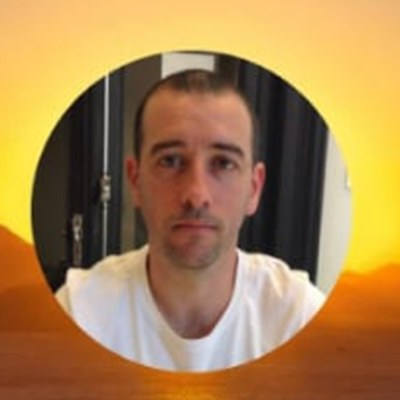
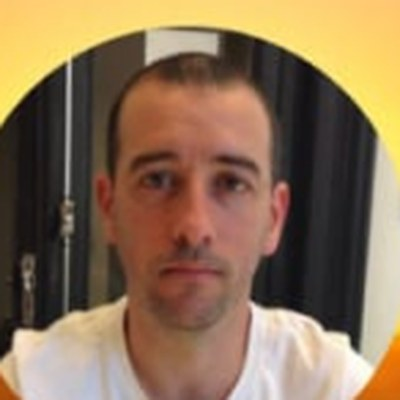
Float spot bubbles above cards, improve vehicle and Adrian profile

diff --git a/css/styles.css b/css/styles.css
@@ -106,11 +106,11 @@ body {
 .vehicle-showcase {
   position: relative;
   flex-shrink: 0;
-  max-width: min(520px, 72vw);
+  max-width: min(560px, 80vw);
   width: 100%;
-  height: clamp(180px, 34vh, 260px);
+  height: clamp(200px, 36vh, 300px);
   margin: 0 auto 8px;
-  padding-bottom: 16px;
+  padding-bottom: 8px;
   background: transparent;
   border: none;
   overflow: visible;
@@ -138,7 +138,7 @@ body {
 
 .vehicle-view-photo {
   object-fit: contain;
-  object-position: center bottom;
+  object-position: center center;
 }
 
 .vehicle-view {
@@ -147,31 +147,16 @@ body {
   width: 100%;
   height: 100%;
   object-fit: contain;
-  object-position: center bottom;
+  object-position: center center;
   opacity: 0;
   transform: none;
-  transition: opacity 0.45s ease, filter 0.45s ease;
+  transition: opacity 0.45s ease;
   pointer-events: none;
 }
 
 .vehicle-view.active {
   opacity: 1;
   transform: none;
-  filter: drop-shadow(0 18px 28px rgba(0, 0, 0, 0.5));
-}
-
-.vehicle-ground {
-  position: absolute;
-  bottom: 4%;
-  left: 50%;
-  width: 48%;
-  height: 18px;
-  border-radius: 50%;
-  background: radial-gradient(ellipse, rgba(0, 0, 0, 0.45) 0%, rgba(0, 0, 0, 0) 72%);
-  transform: translateX(-50%);
-  transition: opacity 0.45s ease;
-  filter: blur(4px);
-  pointer-events: none;
 }
 
 .vehicle-badge {
@@ -272,7 +257,7 @@ body {
   height: clamp(72px, 12vw, 96px);
   border-radius: 50%;
   object-fit: cover;
-  object-position: center top;
+  object-position: center 28%;
   border: 2px solid rgba(122, 156, 132, 0.45);
   box-shadow: 0 4px 14px rgba(0, 0, 0, 0.28);
   display: block;
@@ -533,39 +518,59 @@ body {
   flex: 1;
   min-height: 0;
   align-content: start;
+  transition: padding-top 0.2s ease;
+}
+
+.services-grid.has-spots-open {
+  padding-top: clamp(90px, 14vh, 120px);
+}
+
+.slide-card.services-slide.has-spots-open {
+  overflow: visible;
 }
 
 .service-card-wrap {
   position: relative;
-  overflow: hidden;
+  overflow: visible;
   container-type: inline-size;
   container-name: service-card;
   border-radius: 16px;
 }
 
 .service-card-wrap.is-spots-open {
-  z-index: 30;
+  z-index: 40;
+}
+
+.service-card-dim {
+  position: absolute;
+  inset: 0;
+  z-index: 5;
+  border-radius: 16px;
+  background: rgba(0, 0, 0, 0.72);
+  opacity: 0;
+  pointer-events: none;
+  transition: opacity 0.2s ease;
+}
+
+.service-card-dim.is-visible {
+  opacity: 1;
 }
 
 .spot-bubbles-inline {
   position: absolute;
-  inset: 0;
-  z-index: 10;
+  left: 50%;
+  bottom: calc(100% + 8px);
+  transform: translateX(-50%);
+  z-index: 20;
   display: none;
   flex-direction: column;
   align-items: center;
-  justify-content: center;
+  justify-content: flex-end;
   gap: var(--spot-row-gap);
-  width: auto;
-  max-width: none;
-  min-height: 100%;
+  width: max-content;
+  max-width: calc(100vw - 48px);
   pointer-events: none;
-  padding: var(--spot-overlay-pad-y) var(--spot-overlay-pad-x);
-  background: rgba(8, 10, 14, 0.82);
-  border-radius: 16px;
-  backdrop-filter: blur(4px);
-  -webkit-backdrop-filter: blur(4px);
-  box-shadow: 0 10px 28px rgba(0, 0, 0, 0.38);
+  padding-bottom: 4px;
 }
 
 .spot-bubbles-inline.is-open {
@@ -617,7 +622,11 @@ body {
 }
 
 .spot-bubble-stem {
-  display: none;
+  width: 2px;
+  height: 8px;
+  margin-top: 2px;
+  background: rgba(122, 156, 132, 0.5);
+  border-radius: 1px;
 }
 
 .spot-bubble-label {
@@ -677,6 +686,8 @@ body {
 }
 
 .service-card {
+  position: relative;
+  z-index: 1;
   display: flex;
   flex-direction: column;
   align-items: stretch;
@@ -743,14 +754,6 @@ body {
 
 .service-icon {
   display: none;
-}
-
-.services-note {
-  margin: 18px 0 0;
-  text-align: center;
-  color: var(--text-muted);
-  font-size: 0.85rem;
-  flex-shrink: 0;
 }
 
 @keyframes bubblePop {
@@ -1211,11 +1214,6 @@ body {
 
   .service-photo-wrap {
     height: clamp(48px, 12vh, 60px);
-  }
-
-  .services-note {
-    margin-top: 10px;
-    font-size: 0.8rem;
   }
 }
 

diff --git a/js/app.js b/js/app.js
@@ -26,7 +26,7 @@
       vehicleBadge: '100% Eléctrico',
       vehicleColor: 'Blanco',
       comfortSubtitle: 'Por qué viajar en Bestune',
-      driverName: 'Adrián Pereda',
+      driverName: 'Adrián',
       driverRole: 'Conductor profesional · Montevideo y costa',
       uberLabel: 'Valoración Uber',
       uberRating: '4.99',
@@ -74,7 +74,6 @@
         'Bodas, corporativos y ocasiones especiales',
         'Carrasco, puerto y hoteles · puntualidad'
       ],
-      servicesNote: 'Reservá tu traslado con un solo toque en la siguiente pantalla.',
       contactTitle: 'Contacto',
       contactSubtitle: 'Estamos para ayudarte',
       contactPhoneLabel: 'Teléfono',
@@ -92,7 +91,7 @@
       vehicleBadge: '100% Electric',
       vehicleColor: 'White',
       comfortSubtitle: 'Why ride in a Bestune',
-      driverName: 'Adrián Pereda',
+      driverName: 'Adrián',
       driverRole: 'Professional driver · Montevideo and coast',
       uberLabel: 'Uber rating',
       uberRating: '4.99',
@@ -140,7 +139,6 @@
         'Weddings, corporate and special occasions',
         'Carrasco, port and hotels · on time'
       ],
-      servicesNote: 'Book your transfer with one tap on the next screen.',
       contactTitle: 'Contact',
       contactSubtitle: 'We are here to help',
       contactPhoneLabel: 'Phone',
@@ -158,7 +156,7 @@
       vehicleBadge: '100% Elétrico',
       vehicleColor: 'Branco',
       comfortSubtitle: 'Por que viajar na Bestune',
-      driverName: 'Adrián Pereda',
+      driverName: 'Adrián',
       driverRole: 'Motorista profissional · Montevidéu e litoral',
       uberLabel: 'Avaliação Uber',
       uberRating: '4.99',
@@ -206,7 +204,6 @@
         'Casamentos, corporativos e ocasiões especiais',
         'Carrasco, porto e hotéis · pontualidade'
       ],
-      servicesNote: 'Reserve seu transfer com um toque na próxima tela.',
       contactTitle: 'Contato',
       contactSubtitle: 'Estamos aqui para ajudar',
       contactPhoneLabel: 'Telefone',
@@ -284,7 +281,6 @@
       $('service-desc-' + (i + 1)).textContent = t.serviceDescs[i];
     }
 
-    $('services-note').textContent = t.servicesNote;
     $('contact-title').textContent = t.contactTitle;
     $('contact-subtitle').textContent = t.contactSubtitle;
     $('contact-phone-label').textContent = t.contactPhoneLabel;
@@ -454,12 +450,24 @@
         '<div class="spot-bubble-inline" style="--bubble-i:' + i + '">' +
           '<div class="spot-bubble-photo-wrap">' +
             '<img src="' + spot.image + '" alt="" class="spot-bubble-photo" loading="lazy">' +
+            '<span class="spot-bubble-stem" aria-hidden="true"></span>' +
           '</div>' +
           '<span class="spot-bubble-label">' + spot.name + '</span>' +
         '</div>'
       );
     }).join('');
     container.innerHTML = '<div class="spot-bubbles-row">' + bubblesHtml + '</div>';
+  }
+
+  function setSpotsOpenState(isOpen) {
+    var grid = document.querySelector('.services-grid');
+    var slide = document.querySelector('.slide-card.services-slide');
+    if (grid) {
+      grid.classList.toggle('has-spots-open', isOpen);
+    }
+    if (slide) {
+      slide.classList.toggle('has-spots-open', isOpen);
+    }
   }
 
   function openDestinationSpots(index) {
@@ -480,7 +488,14 @@
     }
     if (wrap) {
       wrap.classList.add('is-spots-open');
+      var dim = wrap.querySelector('.service-card-dim');
+      if (dim) {
+        dim.classList.add('is-visible');
+        dim.setAttribute('aria-hidden', 'false');
+      }
     }
+
+    setSpotsOpenState(true);
 
     document.querySelectorAll('.service-card-btn').forEach(function (btn) {
       var isActive = parseInt(btn.dataset.destination, 10) === index;
@@ -506,7 +521,14 @@
 
     document.querySelectorAll('.service-card-wrap.is-spots-open').forEach(function (wrap) {
       wrap.classList.remove('is-spots-open');
+      var dim = wrap.querySelector('.service-card-dim');
+      if (dim) {
+        dim.classList.remove('is-visible');
+        dim.setAttribute('aria-hidden', 'true');
+      }
     });
+
+    setSpotsOpenState(false);
 
     document.querySelectorAll('.service-card-btn').forEach(function (btn) {
       btn.classList.remove('is-active');

diff --git a/index.html b/index.html
@@ -39,7 +39,6 @@
           <img src="assets/bestune-side.png" class="vehicle-view vehicle-view-photo" data-angle="1" alt="Bestune NAT blanco vista lateral">
           <img src="assets/bestune-rear.png" class="vehicle-view vehicle-view-photo" data-angle="2" alt="Bestune NAT blanco vista frontal">
         </div>
-        <div class="vehicle-ground"></div>
       </div>
     </section>
 
@@ -54,8 +53,8 @@
           <div class="slide-card vehicle-slide">
             <div class="vehicle-layout">
               <aside class="driver-card">
-                <img src="assets/adrian-pereda.jpg" alt="Adrián Pereda" class="driver-avatar" width="80" height="80" loading="eager">
-                <h2 class="driver-name" id="driver-name">Adrián Pereda</h2>
+                <img src="assets/adrian-pereda.jpg" alt="Adrián" class="driver-avatar" width="80" height="80" loading="eager">
+                <h2 class="driver-name" id="driver-name">Adrián</h2>
                 <p class="driver-role" id="driver-role">Conductor profesional · Montevideo y costa</p>
                 <div class="driver-stats driver-stats-row">
                   <div class="stat-pill stat-uber">
@@ -106,6 +105,7 @@
             <div class="services-grid">
               <div class="service-card-wrap" data-destination="0">
                 <div class="spot-bubbles-inline" id="spot-bubbles-0" aria-hidden="true"></div>
+                <div class="service-card-dim" aria-hidden="true"></div>
                 <button type="button" class="service-card service-card-btn" data-destination="0" aria-expanded="false">
                   <div class="service-photo-wrap">
                     <img src="assets/destinations/punta-del-este.jpg" alt="" class="service-photo" loading="lazy">
@@ -116,6 +116,7 @@
               </div>
               <div class="service-card-wrap" data-destination="1">
                 <div class="spot-bubbles-inline" id="spot-bubbles-1" aria-hidden="true"></div>
+                <div class="service-card-dim" aria-hidden="true"></div>
                 <button type="button" class="service-card service-card-btn" data-destination="1" aria-expanded="false">
                   <div class="service-photo-wrap">
                     <img src="assets/destinations/colonia.jpg" alt="" class="service-photo" loading="lazy">
@@ -126,6 +127,7 @@
               </div>
               <div class="service-card-wrap" data-destination="2">
                 <div class="spot-bubbles-inline" id="spot-bubbles-2" aria-hidden="true"></div>
+                <div class="service-card-dim" aria-hidden="true"></div>
                 <button type="button" class="service-card service-card-btn" data-destination="2" aria-expanded="false">
                   <div class="service-photo-wrap">
                     <img src="assets/destinations/eventos.jpg" alt="" class="service-photo" loading="lazy">
@@ -136,6 +138,7 @@
               </div>
               <div class="service-card-wrap" data-destination="3">
                 <div class="spot-bubbles-inline" id="spot-bubbles-3" aria-hidden="true"></div>
+                <div class="service-card-dim" aria-hidden="true"></div>
                 <button type="button" class="service-card service-card-btn" data-destination="3" aria-expanded="false">
                   <div class="service-photo-wrap">
                     <img src="assets/destinations/aeropuerto.jpg" alt="" class="service-photo" loading="lazy">
@@ -145,7 +148,6 @@
                 </button>
               </div>
             </div>
-            <p class="services-note" id="services-note">Reservá tu traslado con un solo toque en la siguiente pantalla.</p>
           </div>
         </section>
 

diff --git a/sw.js b/sw.js
@@ -1,4 +1,4 @@
-var CACHE_NAME = 'pereda-tablet-v13';
+var CACHE_NAME = 'pereda-tablet-v14';
 var ASSETS = [
   './',
   './index.html',